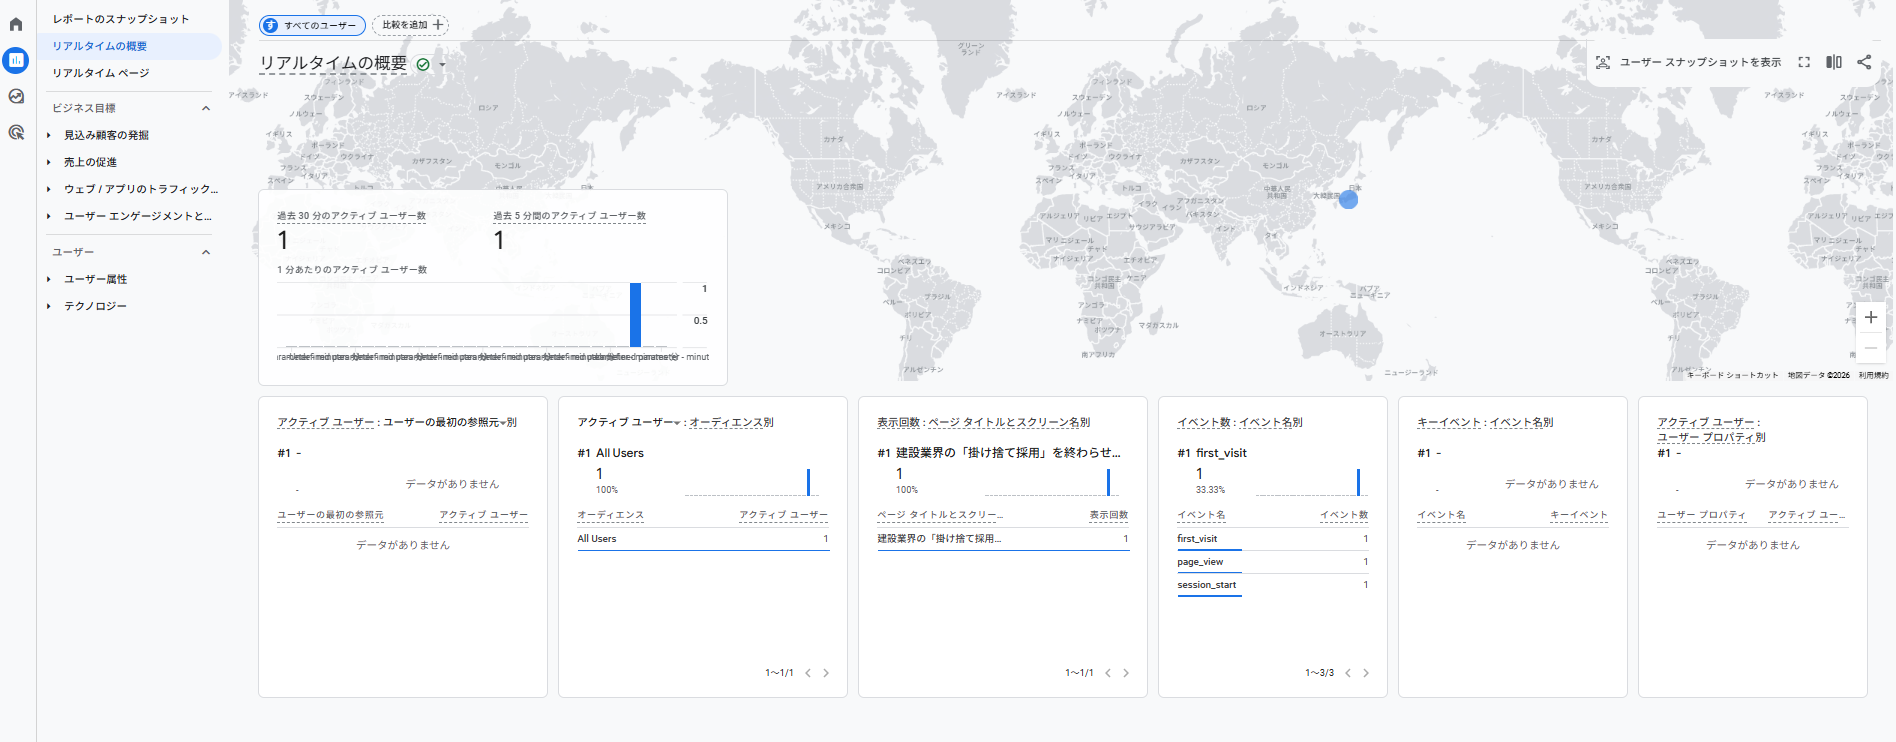
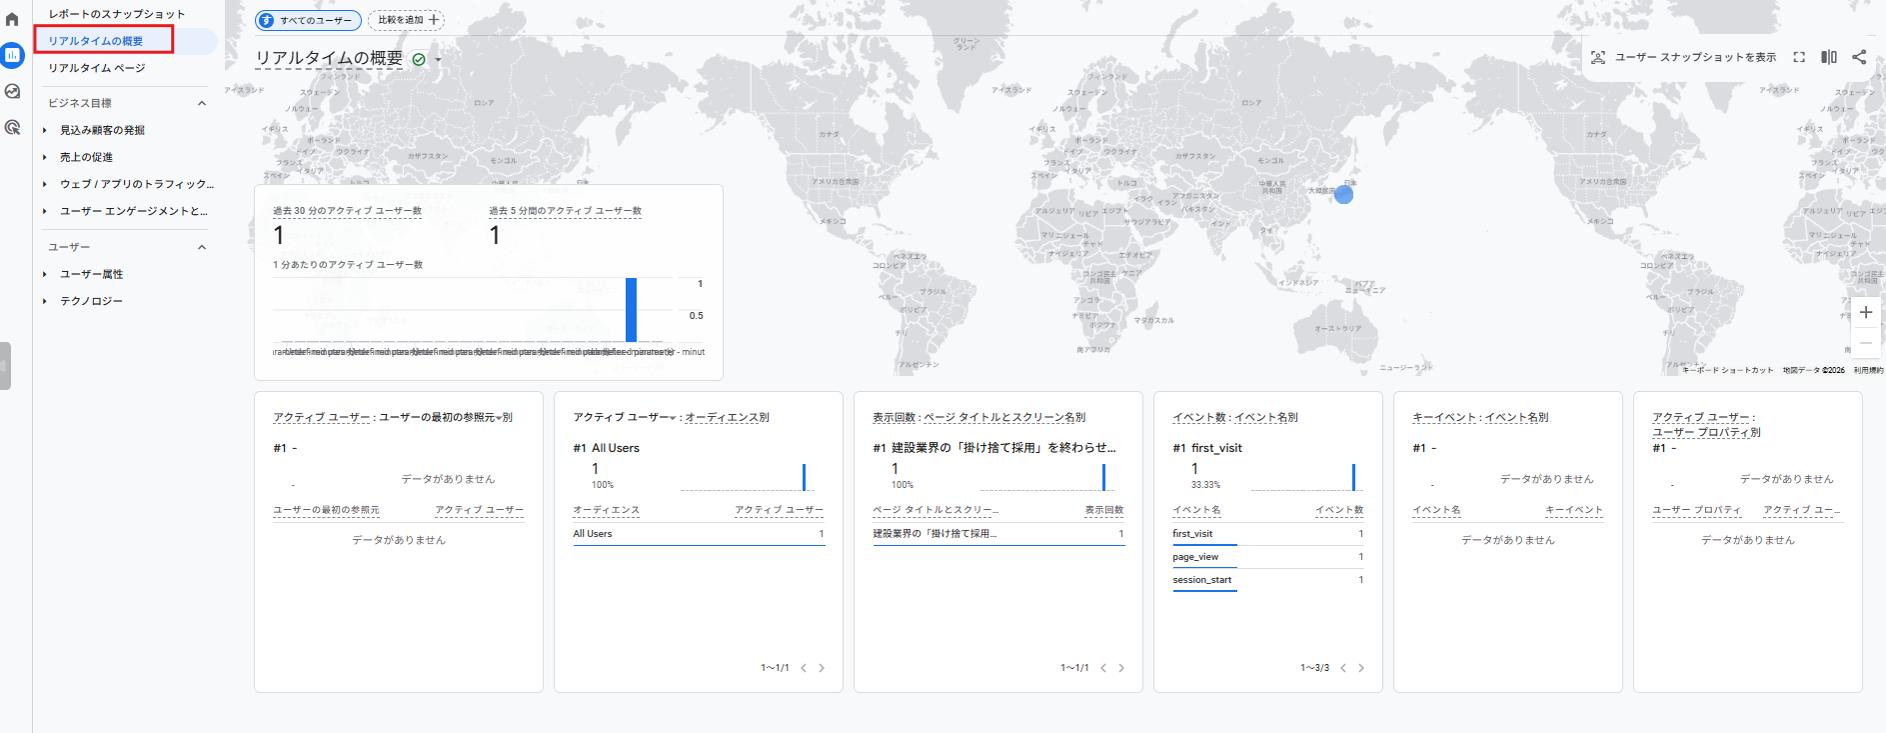
Fix: Update GA4 manual with correct screenshot paths

diff --git a/TODAY.md b/TODAY.md
@@ -1,81 +1,102 @@
-# 📅 本日のミッション：2026-02-13 (木)
+# 📅 本日のミッション：2026-02-14 (金)
 
-> **Theme:** 「Portfolio Expansion Blitz」  
-> 堀田モデル確立完了。次は Type-A/B/C の「堀田レベル」達成へ。
+> **Theme:** 「LINE Official Account Launch」  
+> Week 3完遂。リードマグネット配信システムを公開準備完了へ。
 
 ---
 
 ## 🎯 今日の戦略的焦点
 
-### Phase 01 Week 4 突入：Evidence Aggregation & Business-Ready Showcase
+### Phase 01 Week 3 完遂：LINE公式アカウント公開準備
 
-**90日ロードマップ Week 4 のミッション**:
+**90日ロードマップ Week 3 のミッション**:
 
-- Type-A（Artisan）、Type-B（Frontier）、Type-C（Heritage）を「堀田レベル」のコンテンツ密度に引き上げ
-- 全4ケースの「動く証拠」を集約し、営業可能な状態に
+- リードマグネット完成 & LINE自動化フロー設定
 
 **昨日までの達成**:
 
-- ✅ 堀田LP：モバイル最適化完遂（スコア66点、FCP 3.9秒）
-- ✅ Cloudflare最適化マニュアル化（再現可能な手順確立）
-- ✅ 社員インタビュー第3人目ヒアリング完了
+- ✅ リードマグネットPDF（`saiyou-manual.pdf`）デプロイ完了
+- ✅ リッチメニュー設計完了（6分割、全URL確定）
+- ✅ 診断フォーム修正完了（汎用的な文言に）
+- ✅ あいさつメッセージ文面確定
+
+**残タスク**: LINE Official Account Managerでの最終設定のみ
 
 ---
 
-## ✅ 優先度A：Type-A（Artisan）12時間エンリッチメント開始
+## ✅ 優先度A：LINE公式アカウント最終設定 & 公開
 
-### 戦略：「堀田モデル」を他テンプレートに転用
+### 1. あいさつメッセージ設定
 
-**「堀田レベル」の定義**:
+- [ ] LINE Official Account Managerにログイン
+- [ ] 「応答設定」→「あいさつメッセージ」を開く
+- [ ] 以下の文面を入力：
 
-1. 3ペルソナの声を各1つ以上掲載（リアリティ）
-2. 1日の流れセクション（具体性）
-3. モバイルスコア65点以上（技術力証明）
-4. 感情導線の設計（見やすさと共感）
+```
+友だち追加ありがとうございます！
+「Webとしくみをつくる」の渥美です😊
 
-**今日のゴール**: Type-A を「堀田レベル」に到達させる
+こちらは、建設業界の採用LP制作に関するご相談窓口です。
 
-### 1. コンテンツ追加
+💡 まずは下のメニューから、お好きな項目をタップしてみてください！
 
-- [ ] 1日の流れセクション作成（AIで下書き → 手動調整）
-- [ ] 職人ペルソナの声追加（架空でも可、リアリティ重視）
-- [ ] FAQ充実化（5問 → 10問）
+📄 資料ダウンロード
+📊 無料診断テスト
+💰 料金確認
+🎨 デザイン事例
 
-### 2. モバイル最適化
+もちろん、直接メッセージをいただいても大丈夫です。
+お気軽にどうぞ！
 
-- [ ] Cloudflare最適化マニュアル適用
-- [ ] PageSpeed Insights測定 → 65点以上達成
+私が直接お返事します😌
+```
 
-### 3. 視覚的証拠の準備
+- [ ] 「あいさつメッセージ」を**ON**にする
+- [ ] 保存
 
-- [ ] スクリーンショット撮影（デスクトップ/モバイル）
-- [ ] ポートフォリオ用の画像素材準備
+### 2. 応答メッセージをOFFに設定
+
+- [ ] 「応答設定」→「応答メッセージ」
+- [ ] **OFF**にする（個別対応を重視）
+- [ ] 保存
+
+### 3. リッチメニュー公開
+
+- [ ] リッチメニュー編集画面で以下を設定：
+  - **A. 資料を受け取る**: `https://web-tsukuru.jp/saiyou-manual.pdf`
+  - **B. 相談する**: `https://forms.gle/98gNVQYLecBLGLK57`
+  - **C. 料金を見る**: `https://web-tsukuru.jp/#pricing`
+  - **D. デザインを見る**: `https://web-tsukuru.jp/works.html`
+  - **E. プロフィール**: `https://web-tsukuru.jp/blog/posts/20260202_why_i_specialize`
+  - **F. 公式サイト**: `https://web-tsukuru.jp/`
+- [ ] メニューバー：「▼ メニューを開く」
+- [ ] デフォルト表示：**ON**
+- [ ] 保存 & 公開
+
+### 4. 通知設定確認
+
+- [ ] アプリ通知をONにする
+- [ ] 新規友だち・メッセージ通知を確認
+
+### 5. テスト送信
+
+- [ ] 自分のLINEで友だち追加
+- [ ] あいさつメッセージが届くか確認
+- [ ] リッチメニューが表示されるか確認
+- [ ] 各ボタンをタップして動作確認
 
 ---
 
-## ✅ 優先度B：堀田LP最終調整（クライアント提出準備）
+## ✅ 優先度B：Phase 01 Week 4 準備
 
-### 納品前の最終チェック
+### Week 4 への移行準備
 
-- [ ] 第3人目インタビュー内容の反映
-- [ ] 誤字脱字、リンク切れの最終確認
-- [ ] デスクトップ/モバイルでの表示確認
+**Week 4 ミッション**: Evidence Aggregation & Business-Ready Showcase
 
-### 完成宣言の準備
-
-- [ ] スクリーンショット撮影（ポートフォリオ用）
-- [ ] PageSpeed Insights最終スコア記録
-- [ ] クライアント提出メール下書き作成
-
----
-
-## 🔄 優先度C：Lead Magnet配布準備（時間があれば）
-
-### 次のフェーズへの橋渡し
-
-- [ ] Lead MagnetのPDF化方法決定（Canva vs Markdown）
-- [ ] LINE公式アカウントへの導線設計
-- [ ] SNS投稿での配布計画策定
+- [ ] Type-A（Artisan）エンリッチメント計画策定
+- [ ] Type-B（Frontier）エンリッチメント計画策定
+- [ ] Type-C（Heritage）エンリッチメント計画策定
+- [ ] 「堀田レベル」の定義確認（3ペルソナ、1日の流れ、モバイル65点以上）
 
 ---
 
@@ -83,39 +104,38 @@
 
 **✅ 最低限達成すべきこと**:
 
-- Type-A の1日の流れセクション追加 + モバイル最適化完了
+- LINE公式アカウント設定完了 & テスト送信成功
 
 **🎯 理想的な達成**:
 
-- Type-A「堀田レベル」達成 + 堀田LP完成宣言準備完了
+- LINE公式アカウント公開完了 + Week 4 計画策定完了
 
 **🚀 最高の達成**:
 
-- Type-A「堀田レベル」達成 + 堀田LP納品完了 + Type-B着手
+- LINE公式アカウント公開完了 + Type-A エンリッチメント着手
 
 ---
 
 ## 🧭 戦略的タイムブロック（推奨）
 
-- **午前（04:00-12:00）**: Type-A 12時間エンリッチメント集中作業
-- **午後（13:00-16:00）**: 堀田LP最終調整 + 納品準備
-- **夕方（16:00-18:00）**: Type-B下見 or Lead Magnet準備
-- **夜（18:00-20:00）**: 明日の戦略検討 or 休息
+- **早朝（05:00-07:00）**: LINE設定 & テスト送信
+- **午前（07:00-12:00）**: Week 4 計画策定 or Type-A着手
+- **午後（13:00-16:00）**: Type-A エンリッチメント作業
+- **夕方（16:00-18:00）**: 振り返り & 明日の戦略検討
 
 ---
 
-**制定日**: 2026-02-13 04:20  
+**制定日**: 2026-02-14 05:34  
 **更新者**: Antigravity
 
 ## 💡 戦略メモ
 
-Phase 01 Week 4 は「Evidence Aggregation」フェーズ。堀田LPを完成させるだけでなく、その「再現性」を他3つのテンプレートで証明することが目標。
+**Week 3 → Week 4 の移行**:
 
-**1案件12時間**で「堀田レベル」を達成できれば、Week 4終了時点で：
+Week 3のゴールは「Conversion Magnet（Lead Magnet）& LINE Automation」。
+今日LINE公式アカウントを公開すれば、Week 3完遂となる。
 
-- 堀田（完成）
-- Type-A（堀田レベル）
-- Type-B（堀田レベル）
-- Type-C（堀田レベル）
+Week 4からは「Evidence Aggregation」フェーズ。
+堀田LPで確立した「モバイル最適化手法」と「コンテンツ密度」を、Type-A/B/Cに横展開し、4案件のポートフォリオを完成させる段階。
 
-**合計4案件のポートフォリオ**が揃い、営業開始の準備が整う。
+**今日の焦点**: Week 3の完遂に集中。LINE設定を完了させ、次のフェーズに移行できる状態を整える。
